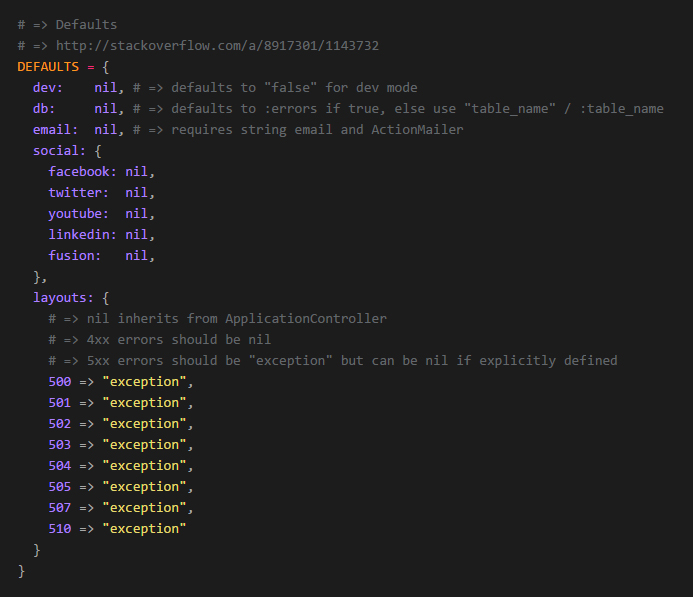
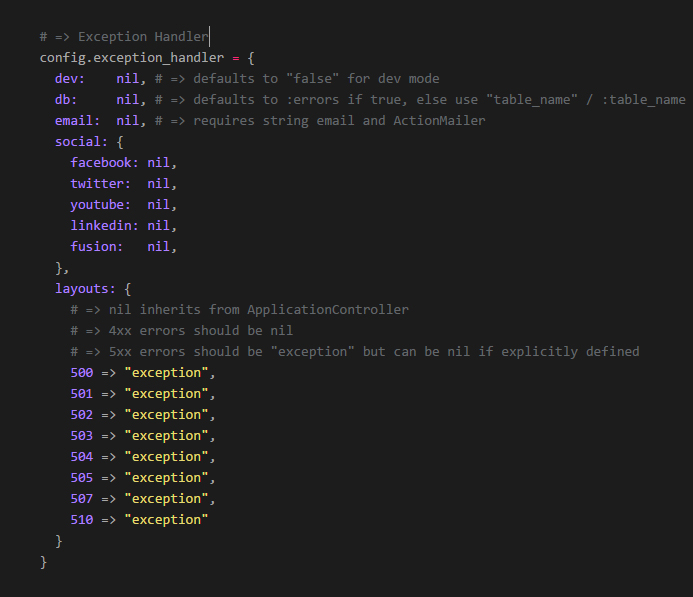
Engine
Former-commit-id: 99be701119534e6583768af66984d926e94a797b
Former-commit-id: e6470e5ebfda562b3cb5ae3a369391fe37422206

Changed region(s): [[0.0303, 0.0302, 1.0, 0.9045]]

diff --git a/README.md b/README.md
@@ -65,11 +65,11 @@ Brand new `controller` & `middleware` have made **`ExceptionHandler`** even more
 
 ![HTTP Error Codes][http_codes]
 
-Since browsers only read `4xx` & `5xx` error codes, any exceptions raised by Rails have to be inferred. Thus, `ExceptionHandler` simply has to manage how the `4xx` / `5xx` errors are passed to the browser.
+Since **browsers only read `4xx` & `5xx` error codes**, all Rails exceptions have to be inferred. Thus, `ExceptionHandler` simply has to manage how the `4xx` / `5xx` errors are passed to the browser.
 
 Unlike other gems, **`ExceptionHandler` uses a custom [`controller`](app/controllers/exception_handler/exceptions_controller.rb) to build an [`@exception`](app/models/exception_handler/exception.rb) object**. This allows us to save the exception, email it or do anything else we may need. The gem has already been a massive success and we continue to actively maintain it.
 
-Now you can try for yourself...
+Now you can try for yourself ...
 
 
 ----
@@ -172,7 +172,7 @@ As follows:
       }
     }
 
-If you're using a [`Rails` Engine](http://guides.rubyonrails.org/engines.html), you **don't** need to include it in an `initializer`:
+If you're using an [`Engine`](http://guides.rubyonrails.org/engines.html), you **don't** need to include it in an `initializer`:
 
     # lib/engine.rb
     module YourModule
@@ -181,29 +181,8 @@ If you're using a [`Rails` Engine](http://guides.rubyonrails.org/engines.html), 
         # => ExceptionHandler
         # => Works in and out of an initializer
         config.exception_handler = {
-          dev:    false,
-          db:     false,
-          email: 	false,
-          social: {
-            facebook: nil,
-            twitter:  nil,
-            youtube:  nil,
-            linkedin: nil,
-            fusion:   nil,
-          },
-          layouts: {
-            # => nil inherits from ApplicationController
-            # => 4xx default to nil
-            # => 5xx errors should be "exception" but can be nil if explicitly defined
-            500 => "exception",
-            501 => "exception",
-            502 => "exception",
-            503 => "exception",
-            504 => "exception",
-            505 => "exception",
-            507 => "exception",
-            510 => "exception"
-          }
+          dev: false,
+          db:  true
         }
       end
 
